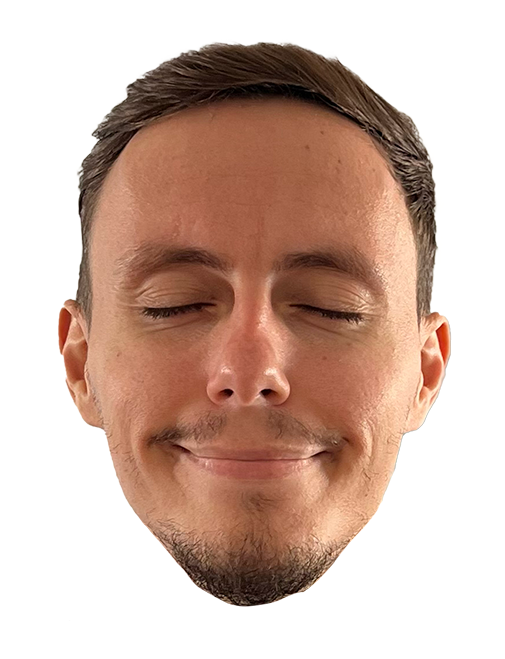
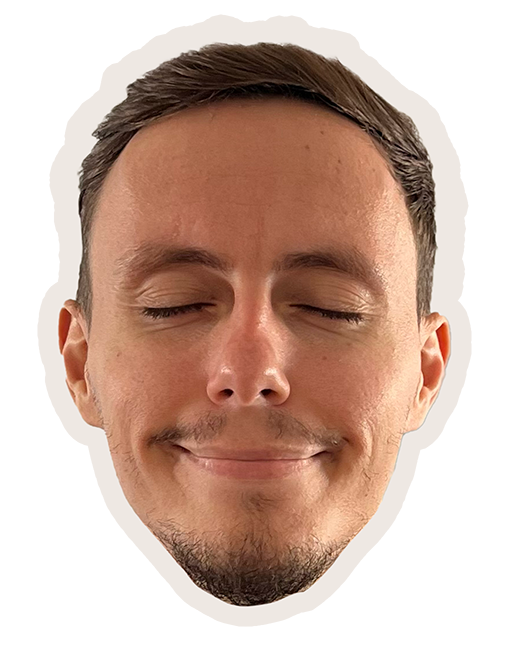
update hero picture + correct responsive

Changed region(s): [[0.0594, 0.0, 0.9505, 0.9712]]

diff --git a/src/components/layout/Contact/Contact.tsx b/src/components/layout/Contact/Contact.tsx
@@ -92,34 +92,36 @@ export const Contact = () => {
       );
 
       return () => {
-        tl.kill()
-      }
+        tl.kill();
+      };
     }
   }, []);
 
   return (
     <footer className="flex flex-col w-screen pb-2 relative" id="contact">
       <h1
-        className="text-center overflow-hidden pt-10 flex flex-wrap items-center justify-center gap-4 relative"
+        className="text-center overflow-hidden pt-10 flex flex-wrap items-center justify-center gap-2 lg:gap-4 relative"
         ref={titleRef}
       >
         {titleText.split(" ").map((word, wordIndex) => (
-          <span className="flex flex-nowrap" key={`word-${wordIndex}`}>
+          <span className="inline-flex flex-nowrap relative w-fit py-3" key={`word-${wordIndex}`}>
             {word.split("").map((letter, letterIndex) => (
               <span
-                className="letter inline-block"
+                className="letter"
                 key={`letter-${wordIndex}-${letterIndex}`}
               >
                 {letter}
               </span>
             ))}
+            {wordIndex === titleText.split(" ").length - 1 && (
+              <img
+                src="./assets/rock.png"
+                className=" w-8 lg:w-16 stroke-two absolute -right-8 lg:-right-16 lg:-top-3"
+                id="rock"
+              />
+            )}
           </span>
         ))}
-        <img
-          src="./assets/rock.png"
-          className=" w-10 lg:w-16 stroke-two"
-          id="rock"
-        />
       </h1>
 
       {/* Liens sociaux */}

diff --git a/src/components/layout/Hero/HeroPicture.tsx b/src/components/layout/Hero/HeroPicture.tsx
@@ -151,7 +151,7 @@ export const HeroPicture = () => {
     >
       <img
         src="./assets/big-head.png"
-        className="object-cover w-[75%] sm:w-[60%] lg:w-[30%] 2xl:w-[25%] max-w-[500px] will-change-auto stroke lg:-translate-x-10"
+        className="object-cover w-[75%] sm:w-[60%] lg:w-[30%] 2xl:w-[25%] max-w-[500px] will-change-auto lg:-translate-x-10 drop-shadow-custom"
         alt="Hero Animation"
         id="hero-picture"
       />

diff --git a/src/components/layout/Skills/Skills.tsx b/src/components/layout/Skills/Skills.tsx
@@ -77,7 +77,7 @@ export const Skills = () => {
         return (
           <p
             key={techno.icon}
-            className="flex flex-col items-center gap-1 font-modak uppercase w-[30%] sm:w-fit border"
+            className="flex flex-col items-center gap-1 font-modak uppercase max-w-[30%] sm:w-fit"
             style={{
               fontSize: "clamp(1.3rem, 5vw, 2.3rem)",
             }}

diff --git a/src/components/layout/About/About.tsx b/src/components/layout/About/About.tsx
@@ -179,7 +179,7 @@ export const About = () => {
           className="leading-snug font-medium w-full sm:w-[90%] max-w-[1300px] py-3"
           ref={aboutRef}
         >
-          A {" "}
+          As a {" "}
           <span className="relative inline-block">
              passionate developer 
             <svg
